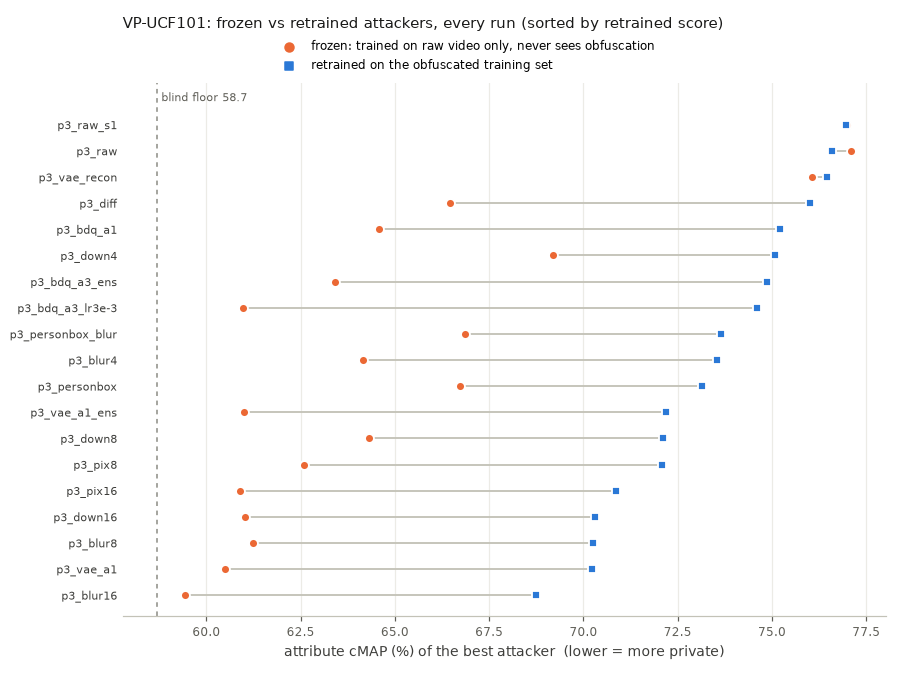
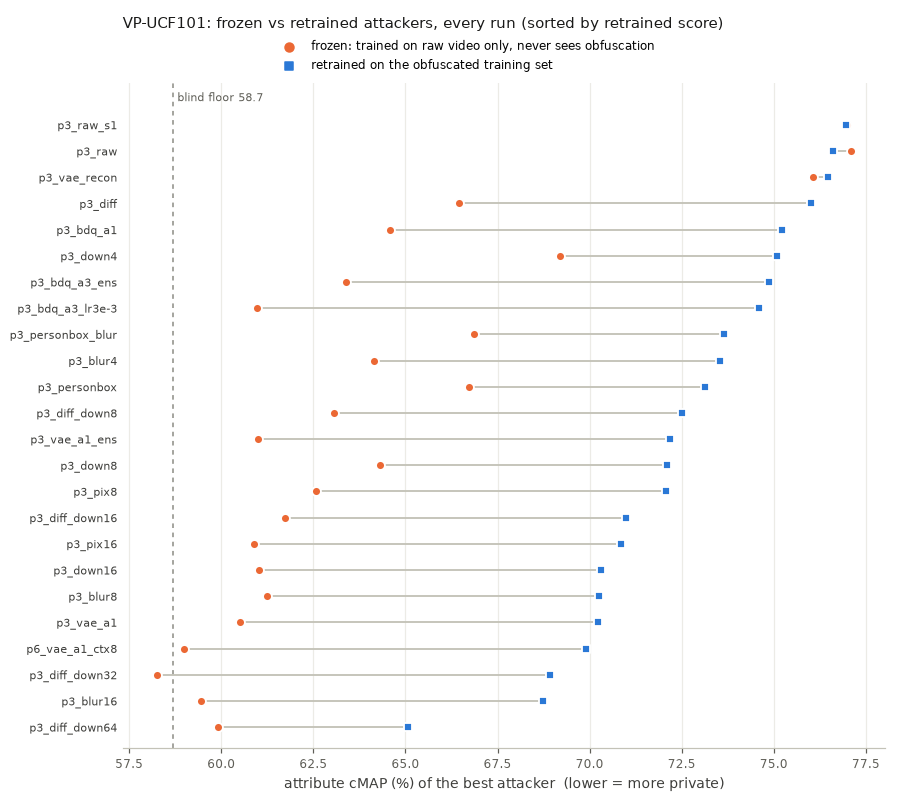
frozen_attackers.py: VP-HMDB51 (floor from the raw run's prevalence); regenerate

diff --git a/research/privacy-obfuscation/scripts/frozen_attackers.py b/research/privacy-obfuscation/scripts/frozen_attackers.py
@@ -22,6 +22,7 @@ FROZEN, RETRAINED = "#eb6834", "#2a78d6"  # validated pair (dataviz validate_pal
 INFO = {
     "kth": dict(name="KTH", task="person", metric="identity top-1 (%)", floor=4.0, floor_label="chance 4.0"),
     "ucf101_vp": dict(name="VP-UCF101", task="attr", metric="attribute cMAP (%)", floor=58.7, floor_label="blind floor 58.7"),
+    "hmdb51_vp": dict(name="VP-HMDB51", task="attr", metric="attribute cMAP (%)", floor=None, floor_label="blind floor"),
 }
 
 
@@ -38,7 +39,7 @@ def rows(ds):
             continue
         task = INFO[ds]["task"]
         w, s = r["weak"], r["strong"]
-        out.append(dict(name=r["name"], split="s1" if ds == "ucf101_vp" else r.get("split"), anon=r["config"]["anonymizer"],
+        out.append(dict(name=r["name"], split="s1" if ds != "kth" else r.get("split"), anon=r["config"]["anonymizer"],
                         frozen_action=w.get("action/r2p1d"), retrained_action=s.get("action/r2p1d"),
                         frozen_frame=w.get(f"{task}/frame_r50"), frozen_video=w.get(f"{task}/r3d"),
                         frozen=best(w, task), retrained=best(s, task)))
@@ -103,6 +104,15 @@ def main():
         rs = rows(ds)
         if not rs:
             continue
+        if info["floor"] is None:  # cMAP floor = mean attribute prevalence, from the raw run's details
+            raw = [json.load(open(p)) for p in glob.glob(os.path.join(ROOT, "results", "runs", "*", "result.json"))]
+            prev = [d["prevalence"] for r in raw if r.get("dataset") == ds and r["config"]["anonymizer"]["type"] == "raw"
+                    for d in r.get("details", {}).values() if d.get("prevalence")]
+            if not prev:
+                continue
+            info = dict(info, floor=sum(prev[0]) / len(prev[0]))
+            info["floor_label"] = f"blind floor {info['floor']:.1f}"
+
         fig_path = os.path.join(ROOT, "results", "figures", f"frozen_vs_retrained_{ds}.png")
         figure(ds, rs, fig_path)
         non_raw = [r for r in rs if r["anon"]["type"] != "raw"]

diff --git a/research/privacy-obfuscation/results/frozen_attackers.md b/research/privacy-obfuscation/results/frozen_attackers.md
@@ -11,8 +11,8 @@ Privacy is the best attacker's score (frame ResNet-50 or video R3D-18; DINOv2 ru
 
 ![frozen vs retrained](figures/frozen_vs_retrained_kth.png)
 
-- 54 obfuscated runs. Median gap retrained - frozen: **62.4 points**.
-- In 43 of 54 runs the frozen attacker recovers less than a quarter of what the retrained one does (above the floor): under the frozen protocol they would look private.
+- 91 obfuscated runs. Median gap retrained - frozen: **55.2 points**.
+- In 80 of 91 runs the frozen attacker recovers less than a quarter of what the retrained one does (above the floor): under the frozen protocol they would look private.
 
 | run | split | obfuscation | frozen action | frozen privacy (frame / video) | **frozen best** | **retrained best** | retrained action |
 |---|---|---|---:|---:|---:|---:|---:|
@@ -41,45 +41,82 @@ Privacy is the best attacker's score (frame ResNet-50 or video R3D-18; DINOv2 ru
 | p1_bgmedian_byaction | ilic | `bg_median` | 42.0 | 48.5 / 45.3 | **48.5** | **90.6** | 62.5 |
 | p2_vae_a1_ens_b3_s1 | ilic | `vae_latent` | 16.7 | 4.0 / 4.0 | **4.0** | **89.5** | 96.8 |
 | p1_bgmedian | ilic | `bg_median` | 42.0 | 48.5 / 45.3 | **48.5** | **89.3** | 59.4 |
+| p1_bdqfixed_tshuffle | ilic | `bdq_fixed (sigma 2.0, levels 8) -> tshuffle` | 17.4 | 4.2 / 4.0 | **4.2** | **89.1** | 95.0 |
 | p2_unet_a1_ens | ilic | `unet3d` | 69.6 | 9.7 / 4.3 | **9.7** | **89.1** | 91.8 |
 | p1_diff_down8 | ilic | `diff (gain 4.0) -> down (factor 8)` | 16.7 | 5.9 / 3.8 | **5.9** | **88.3** | 95.5 |
 | p1_bdqfixed_s2_l8 | ilic | `bdq_fixed (sigma 2.0, levels 8)` | 18.9 | 4.0 / 4.0 | **4.0** | **87.8** | 96.8 |
 | p1_blur8_scenario | scenario | `blur (sigma 8)` | 16.7 | 6.8 / 7.2 | **7.2** | **87.7** | 77.7 |
+| p2_vae_a1_vadv_b3_s1 | ilic | `vae_latent` | 16.7 | 4.0 / 4.2 | **4.2** | **87.0** | 96.7 |
 | p2_vae_a1 | ilic | `vae_latent` | 16.7 | 3.8 / 4.0 | **4.0** | **85.1** | 97.2 |
+| p1_diff_down16 | ilic | `diff (gain 4.0) -> down (factor 16)` | 16.7 | 2.7 / 4.0 | **4.0** | **84.6** | 94.8 |
 | p2_vae_a1_ens | ilic | `vae_latent` | 16.7 | 4.0 / 4.0 | **4.0** | **82.6** | 97.3 |
+| p1_diff_down20 | ilic | `diff (gain 4.0) -> down (factor 20)` | 16.7 | 5.0 / 4.0 | **5.0** | **82.4** | 95.3 |
+| p2_vae_a1_ens_b3 | ilic | `vae_latent` | 16.7 | 4.0 / 4.0 | **4.0** | **81.8** | 97.0 |
 | p2_vae_a05_ens | ilic | `vae_latent` | 16.7 | 4.0 / 3.2 | **4.0** | **81.3** | 95.7 |
 | p2_unet_a05_ens | ilic | `unet3d` | 47.2 | 4.2 / 3.8 | **4.2** | **78.9** | 94.1 |
+| p1_diff_down24 | ilic | `diff (gain 4.0) -> down (factor 24)` | 16.7 | 5.5 / 2.5 | **5.5** | **77.8** | 94.3 |
 | p2_vae_a1_vadv | ilic | `vae_latent` | 16.7 | 4.0 / 3.8 | **4.0** | **75.6** | 96.2 |
+| p2_vae_a1_ens_warm | ilic | `vae_latent` | 16.7 | 3.2 / 4.0 | **4.0** | **74.1** | 93.1 |
 | p2_bdq_a1 | ilic | `bdq` | 35.1 | 4.8 / 4.7 | **4.8** | **69.9** | 93.5 |
 | p2_bdq_a3_lr3e-3_s1 | ilic | `bdq` | 32.6 | 4.8 / 5.7 | **5.7** | **68.7** | 94.5 |
 | p2_bdq_a3_ens | ilic | `bdq` | 31.6 | 4.0 / 3.8 | **4.0** | **68.6** | 96.7 |
+| p2_bdq_a5_ens_b3_s1 | ilic | `bdq` | 42.0 | 4.2 / 4.0 | **4.2** | **67.4** | 96.3 |
 | p2_bdq_a3_lr3e-3_s2 | ilic | `bdq` | 34.3 | 4.2 / 4.2 | **4.2** | **66.6** | 91.6 |
 | p2_bdq_a1_ens | ilic | `bdq` | 37.5 | 4.0 / 4.0 | **4.0** | **65.2** | 94.1 |
 | p2_down4_bdq_a3 | ilic | `down (factor 4) -> bdq` | 49.5 | 4.8 / 3.3 | **4.8** | **65.1** | 93.1 |
+| p2_vae_a1_vadv_b3_scenario | scenario | `vae_latent` | 16.7 | 4.0 / 4.0 | **4.0** | **65.0** | 83.0 |
 | p1_bgmedian_scenario | scenario | `bg_median` | 27.3 | 19.3 / 18.7 | **19.3** | **64.0** | 56.0 |
+| p1_diff_down32 | ilic | `diff (gain 4.0) -> down (factor 32)` | 16.7 | 2.2 / 4.0 | **4.0** | **63.9** | 93.6 |
+| p1_diff_down32_s1 | ilic | `diff (gain 4.0) -> down (factor 32)` | 16.7 | 3.0 / 4.0 | **4.0** | **62.9** | 93.5 |
 | p2_bdq_a7_ens | ilic | `bdq` | 27.6 | 4.7 / 4.3 | **4.7** | **62.9** | 95.0 |
 | p2_bdq_a1_vadv | ilic | `bdq` | 39.1 | 5.5 / 2.5 | **5.5** | **62.7** | 93.8 |
+| p1_diff_down8_scenario | scenario | `diff (gain 4.0) -> down (factor 8)` | 16.7 | 3.7 / 3.2 | **3.7** | **61.7** | 86.2 |
+| p2_bdq_a1_scenario | scenario | `bdq` | 55.5 | 4.0 / 4.0 | **4.0** | **61.2** | 79.2 |
 | p2_bdq_a5_ens_s2 | ilic | `bdq` | 22.4 | 3.8 / 5.2 | **5.2** | **60.0** | 93.0 |
+| p1_diff_down32_tshuffle | ilic | `diff (gain 4.0) -> down (factor 32) -> tshuffle` | 16.7 | 2.3 / 4.0 | **4.0** | **59.2** | 90.0 |
 | p2_bdq_a5_ens_b3 | ilic | `bdq` | 29.9 | 5.2 / 4.5 | **5.2** | **58.0** | 90.3 |
+| p1_diff_down40 | ilic | `diff (gain 4.0) -> down (factor 40)` | 16.7 | 2.2 / 4.0 | **4.0** | **57.2** | 87.8 |
+| p1_diff_down32_stride4 | ilic | `diff (gain 4.0) -> down (factor 32)` | 16.7 | 4.8 / 4.0 | **4.8** | **57.0** | 93.6 |
 | p2_bdq_a10_lr3e-3 | ilic | `bdq` | 27.8 | 5.2 / 5.4 | **5.4** | **56.5** | 90.8 |
+| p2_bdq_a5_ens_s3 | ilic | `bdq` | 29.3 | 4.8 / 4.7 | **4.8** | **55.2** | 92.3 |
+| p2_bdq_a5_ens_scenario | scenario | `bdq` | 45.2 | 4.3 / 4.8 | **4.8** | **54.0** | 78.7 |
+| p2_bdq_down4_a5_ens | ilic | `bdq -> down (factor 4)` | 23.7 | 3.8 / 5.0 | **5.0** | **52.3** | 90.6 |
+| p1_diff_down16_scenario | scenario | `diff (gain 4.0) -> down (factor 16)` | 16.5 | 2.0 / 4.0 | **4.0** | **50.7** | 81.0 |
 | p2_bdq_a5_ens_s1 | ilic | `bdq` | 30.1 | 5.2 / 5.7 | **5.7** | **48.0** | 86.5 |
 | p2_bdq_a5_lr3e-3_s1 | ilic | `bdq` | 26.9 | 4.7 / 4.2 | **4.7** | **48.0** | 90.3 |
 | p2_bdq_a3_lr3e-3 | ilic | `bdq` | 35.8 | 4.0 / 3.8 | **4.0** | **46.2** | 89.1 |
+| p1_diff_down32_scenario | scenario | `diff (gain 4.0) -> down (factor 32)` | 16.7 | 3.8 / 2.2 | **3.8** | **42.7** | 58.0 |
 | p1_down64 | ilic | `down (factor 64)` | 16.7 | 4.7 / 8.4 | **8.4** | **38.1** | 48.7 |
+| p1_diff_down48 | ilic | `diff (gain 4.0) -> down (factor 48)` | 16.7 | 2.7 / 4.0 | **4.0** | **37.0** | 83.6 |
 | p2_bdq_a5_ens | ilic | `bdq` | 28.8 | 3.8 / 3.7 | **3.8** | **37.0** | 84.4 |
+| p1_diff_down48_s1 | ilic | `diff (gain 4.0) -> down (factor 48)` | 16.7 | 4.2 / 4.0 | **4.2** | **36.3** | 82.4 |
+| p2_bdq_down8_a5_ens | ilic | `bdq -> down (factor 8)` | 16.7 | 4.0 / 2.8 | **4.0** | **35.6** | 82.8 |
 | p2_bdq_a5_lr3e-3 | ilic | `bdq` | 32.1 | 5.2 / 4.7 | **5.2** | **35.3** | 76.9 |
+| p2_bdq_a10_ens | ilic | `bdq` | 31.3 | 4.3 / 4.7 | **4.7** | **31.3** | 71.2 |
 | p2_bdq_a5_ens_warm_s1 | ilic | `bdq` | 30.8 | 4.7 / 4.0 | **4.7** | **30.3** | 78.9 |
+| p6_bdq_a5_ens_tshuffle | ilic | `bdq -> tshuffle` | 28.8 | 3.8 / 4.0 | **4.0** | **29.9** | 76.3 |
+| p2_bdq_a7_ens_s2 | ilic | `bdq` | 30.8 | 4.5 / 3.7 | **4.5** | **29.4** | 67.4 |
 | p2_bdq_a3_lr3e-3_s3 | ilic | `bdq` | 28.9 | 5.0 / 4.7 | **5.0** | **28.9** | 68.4 |
+| p2_bdq_a7_ens_warm | ilic | `bdq` | 30.3 | 3.8 / 4.0 | **4.0** | **27.1** | 64.7 |
+| p1_diff_down48_scenario | scenario | `diff (gain 4.0) -> down (factor 48)` | 16.7 | 4.0 / 4.0 | **4.0** | **26.5** | 44.0 |
 | p2_bdq_a3_scenario | scenario | `bdq` | 30.5 | 4.0 / 3.5 | **4.0** | **24.7** | 55.8 |
 | p2_bdq_a5_ens_warm | ilic | `bdq` | 28.6 | 5.4 / 4.0 | **5.4** | **23.6** | 61.4 |
+| p6_bdq_a5_ens_warm_tshuffle | ilic | `bdq -> tshuffle` | 27.6 | 4.3 / 4.0 | **4.3** | **18.9** | 56.0 |
+| p2_bdq_down64_a1_ens | ilic | `bdq -> down (factor 64)` | 16.7 | 4.0 / 4.8 | **4.8** | **12.5** | 82.1 |
+| p1_diff_down64_tshuffle | ilic | `diff (gain 4.0) -> down (factor 64) -> tshuffle` | 16.7 | 3.2 / 4.0 | **4.0** | **11.9** | 64.2 |
+| p1_diff_down64_stride4 | ilic | `diff (gain 4.0) -> down (factor 64)` | 16.7 | 1.8 / 4.2 | **4.2** | **11.4** | 71.6 |
+| p1_diff_down64 | ilic | `diff (gain 4.0) -> down (factor 64)` | 16.7 | 3.8 / 3.8 | **3.8** | **11.0** | 69.9 |
+| p1_diff_down64_s1 | ilic | `diff (gain 4.0) -> down (factor 64)` | 16.7 | 4.0 / 3.7 | **4.0** | **10.9** | 70.7 |
+| p1_diff_down64_scenario | scenario | `diff (gain 4.0) -> down (factor 64)` | 16.7 | 4.0 / 2.8 | **4.0** | **9.5** | 23.3 |
+| p1_diff_down120 | ilic | `diff (gain 4.0) -> down (factor 120)` | 16.7 | 3.2 / 4.0 | **4.0** | **6.9** | 54.2 |
 | p2_unet_a3 | ilic | `unet3d` | 16.7 | 4.0 / 4.0 | **4.0** | **4.0** | 16.7 |
 
 ## VP-UCF101 (attribute cMAP (%); blind floor 58.7)
 
 ![frozen vs retrained](figures/frozen_vs_retrained_ucf101_vp.png)
 
-- 17 obfuscated runs. Median gap retrained - frozen: **9.4 points**.
-- In 7 of 17 runs the frozen attacker recovers less than a quarter of what the retrained one does (above the floor): under the frozen protocol they would look private.
+- 22 obfuscated runs. Median gap retrained - frozen: **9.5 points**.
+- In 11 of 22 runs the frozen attacker recovers less than a quarter of what the retrained one does (above the floor): under the frozen protocol they would look private.
 
 | run | split | obfuscation | frozen action | frozen privacy (frame / video) | **frozen best** | **retrained best** | retrained action |
 |---|---|---|---:|---:|---:|---:|---:|
@@ -94,11 +131,16 @@ Privacy is the best attacker's score (frame ResNet-50 or video R3D-18; DINOv2 ru
 | p3_personbox_blur | s1 | `person_box (mode blur, every 8, dilate 6, sigma 8.0)` | 57.9 | 66.9 / 66.2 | **66.9** | **73.6** | 75.9 |
 | p3_blur4 | s1 | `blur (sigma 4)` | 3.0 | 64.2 / 60.6 | **64.2** | **73.5** | 79.9 |
 | p3_personbox | s1 | `person_box (mode black, every 8, dilate 6)` | 55.3 | 66.7 / 65.5 | **66.7** | **73.1** | 70.4 |
+| p3_diff_down8 | s1 | `diff (gain 4.0) -> down (factor 8)` | 1.6 | 63.1 / 60.8 | **63.1** | **72.5** | 73.4 |
 | p3_vae_a1_ens | s1 | `vae_latent` | 1.6 | 60.2 / 61.0 | **61.0** | **72.2** | 78.0 |
 | p3_down8 | s1 | `down (factor 8)` | 3.1 | 64.3 / 62.5 | **64.3** | **72.1** | 72.2 |
 | p3_pix8 | s1 | `pixelate (factor 8)` | 2.6 | 62.6 / 60.0 | **62.6** | **72.1** | 72.6 |
+| p3_diff_down16 | s1 | `diff (gain 4.0) -> down (factor 16)` | 1.9 | 61.7 / 60.2 | **61.7** | **71.0** | 63.7 |
 | p3_pix16 | s1 | `pixelate (factor 16)` | 1.6 | 60.9 / 60.0 | **60.9** | **70.9** | 55.2 |
 | p3_down16 | s1 | `down (factor 16)` | 2.2 | 61.0 / 58.1 | **61.0** | **70.3** | 53.7 |
 | p3_blur8 | s1 | `blur (sigma 8)` | 1.7 | 61.2 / 58.2 | **61.2** | **70.3** | 58.9 |
 | p3_vae_a1 | s1 | `vae_latent` | 1.5 | 60.5 / 59.8 | **60.5** | **70.2** | 66.0 |
+| p6_vae_a1_ctx8 | s1 | `vae_latent` | 0.9 | 59.0 / 58.4 | **59.0** | **69.9** | 66.1 |
+| p3_diff_down32 | s1 | `diff (gain 4.0) -> down (factor 32)` | 0.7 | 58.3 / 57.4 | **58.3** | **68.9** | 42.9 |
 | p3_blur16 | s1 | `blur (sigma 16)` | 1.1 | 59.2 / 59.4 | **59.4** | **68.7** | 40.0 |
+| p3_diff_down64 | s1 | `diff (gain 4.0) -> down (factor 64)` | 1.0 | 59.9 / 58.0 | **59.9** | **65.1** | 17.8 |
